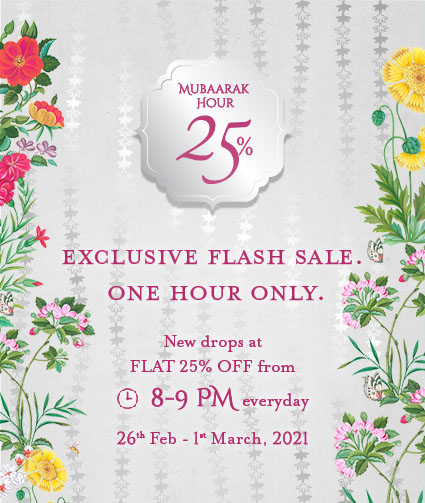
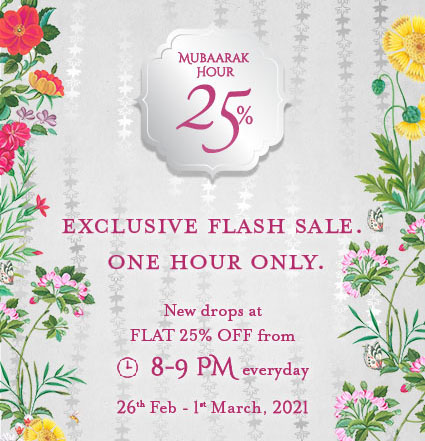
Fix mubaarak bugs

diff --git a/src/containers/mubaarak/index.tsx b/src/containers/mubaarak/index.tsx
@@ -88,7 +88,7 @@ const NotificationForm: React.FC = () => {
   const prepareFormData = (model: any) => {
     const formData = new FormData();
     const { email, firstName, lastName, phone } = model;
-    formData.append("email", email || "");
+    formData.append("email", email.toString().toLowerCase() || "");
     formData.append("firstName", firstName || "");
     formData.append("lastName", lastName || "");
     phone ? formData.append("phone", `+91${phone}`) : "";
@@ -156,7 +156,7 @@ const NotificationForm: React.FC = () => {
               }}
               validationErrors={{
                 maxLength: "Max limit reached.",
-                isAlpha: "Name Should contain only alphabets."
+                isAlpha: "Only alphabets are allowed."
               }}
             />
           </div>
@@ -171,7 +171,7 @@ const NotificationForm: React.FC = () => {
               }}
               validationErrors={{
                 maxLength: "Max limit reached.",
-                isAlpha: "Name Should contain only alphabets."
+                isAlpha: "Only alphabets are allowed."
               }}
             />
           </div>
@@ -262,7 +262,7 @@ const NotificationForm: React.FC = () => {
               <LazyImage
                 src={mobile ? mubaarakMobile : mubaarakDesktop}
                 className={globalStyles.imgResponsive}
-                aspectRatio={mobile ? "0.84:1" : "3.77:1"}
+                aspectRatio={mobile ? "0.96:1" : "3.77:1"}
               />
             </div>
           </div>

diff --git a/src/containers/career/components/JobForm/index.tsx b/src/containers/career/components/JobForm/index.tsx
@@ -424,7 +424,7 @@ class JobForm extends React.Component<Props, State> {
                 validationErrors={{
                   isExisty: isExistyError,
                   maxLength: "Max limit reached.",
-                  isAlpha: "Name Should contain only alphabets."
+                  isAlpha: "Only alphabets are allowed."
                 }}
               />
             </div>
@@ -442,7 +442,7 @@ class JobForm extends React.Component<Props, State> {
                 validationErrors={{
                   isExisty: isExistyError,
                   maxLength: "Max limit reached.",
-                  isAlpha: "Name Should contain only alphabets."
+                  isAlpha: "Only alphabets are allowed."
                 }}
               />
             </div>

diff --git a/src/containers/mubaarak/styles.scss b/src/containers/mubaarak/styles.scss
@@ -217,6 +217,9 @@
 
 @media screen and (max-width: 992px) {
     h4 {
-        font-size: 14px;
+        font-size: 14px !important;
+    }
+    .job-application {
+        margin-top: 30px !important;
     }
 }
